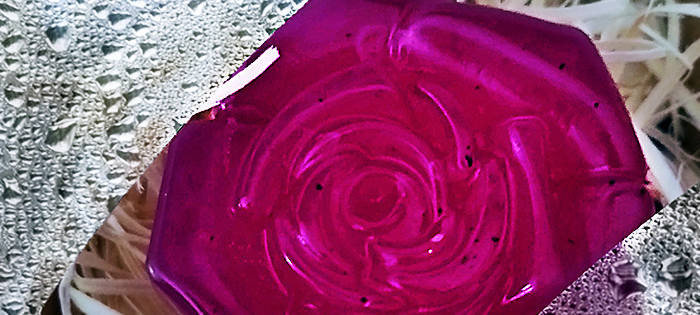
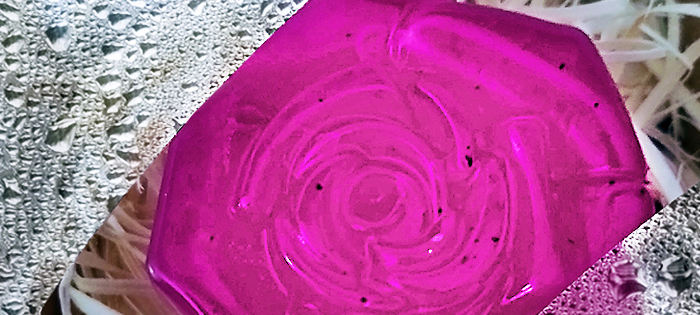
poprawki

diff --git a/oleje.html b/oleje.html
@@ -187,10 +187,9 @@
                     <div class="space-y-6">
                         <h2 class="text-3xl font-bold text-green-dark font-serif">Olej Słonecznikowy</h2>
                         <p class="text-lg text-green-secondary leading-relaxed">
-                            Olej słonecznikowy tłoczony na zimno to naturalny skarb pełen witaminy E i nienasyconych kwasów tłuszczowych. Zachowuje wszystkie cenne właściwości dzięki delikatnej metodzie tłoczenia bez użycia wysokich temperatur.
-                        </p>
-                        <p class="text-lg text-green-secondary leading-relaxed">
-                            Idealny do codziennego użytku w kuchni - do sałatek, sosów i potraw na zimno. Charakteryzuje się delikatnym, słonecznikowym smakiem i złocistym kolorem. Wspiera zdrowie serca i układu krążenia.
+                           Obniża poziom „złego” cholesterolu LDL, zmniejsza ryzyko zawału serca i miażdżycy,
+przeciwdziała zapaleniu stawów oraz poprawia funkcje mózgu, stsosowany w walce ze
+skurczami łydek, wspomaga kondycję włosów, wygląd skóry i paznokci.
                         </p>
                         <div class="flex items-center space-x-4">
                             <span class="text-2xl font-bold text-gold font-serif">30 zł</span>
@@ -206,10 +205,14 @@
                     <div class="space-y-6 md:order-1">
                         <h2 class="text-3xl font-bold text-green-dark font-serif">Olej Rzepakowy</h2>
                         <p class="text-lg text-green-secondary leading-relaxed">
-                            Olej rzepakowy tłoczony na zimno to doskonałe źródło kwasów omega-3 i omega-6 w optymalnych proporcjach. Nierafinowany i niefiltrowany, zachowuje pełnię wartości odżywczych z nasion rzepaku.
-                        </p>
-                        <p class="text-lg text-green-secondary leading-relaxed">
-                            Uniwersalny olej do codziennego gotowania i smażenia w niskich temperaturach. Charakteryzuje się łagodnym smakiem i złocistym kolorem. Wspiera prawidłowy poziom cholesterolu i zdrowie układu sercowo-naczyniowego.
+                            Posiada właściwości odżywcze, przeciwzapalne i kardioprotekcyjne, dzięki czemu wspiera pracę
+mózgu, serca oraz układu nerwowego i odpornościowego. Jest bogatym źródłem witamin (głównie E i
+K), nienasyconych kwasów tłuszczowych (omega-3 i omega-6) oraz antyoksydantów, które opóźniają
+procesy starzenia, pomaga obniżyć poziom "złego" cholesterolu (LDL), zapobiegając
+chorobom serca i naczyń krwionośnych, wspiera układ nerwowy , kwasy tłuszczowe i
+antyoksydanty wpływają na sprawność intelektualną, pamięć i koncentrację, działanie
+przeciwzapalne i odpornościowe, skuteczny w walce z niewydolnością żylną, zawarta witamina K
+odpowiada za prawidłowe krzepnięcie krwi .
                         </p>
                         <div class="flex items-center space-x-4">
                             <span class="text-2xl font-bold text-gold font-serif">35 zł</span>
@@ -229,12 +232,17 @@
                         <img src="https://hebbkx1anhila5yf.public.blob.vercel-storage.com/olej%20z%20konopi-i5uHM3IxeOGE2MQ13WQnrOsx5vmkNr.png" alt="Olej konopny" class="w-full h-96 object-contain">
                     </div>
                     <div class="space-y-6">
-                        <h2 class="text-3xl font-bold text-green-dark font-serif">Olej z Konopi</h2>
+                        <h2 class="text-3xl font-bold text-green-dark font-serif">Olej z Konopi Oleistej</h2>
                         <p class="text-lg text-green-secondary leading-relaxed">
-                            Olej konopny to nowoczesny superfood o wyjątkowych właściwościach. Tłoczony z nasion konopi siewnych, zawiera idealne proporcje kwasów omega-3 i omega-6. Charakteryzuje się zielonkawym odcieniem i orzechowym smakiem.
-                        </p>
-                        <p class="text-lg text-green-secondary leading-relaxed">
-                            Wspiera regenerację skóry, wzmacnia odporność i poprawia samopoczucie. Doskonały do sałatek, kanapek i jako dodatek do smoothie. Produkt w 100% naturalny i ekologiczny.
+                            Skutecznie hamuje namnażanie się tkanki nowotworowej (chlorofil blokuje przemianę
+zdrowotnych komórek w tkanki nowotworowe), zapobiega wahaniom cukru we krwi,
+wspomaga pracę serca i naczyń krwionośnych, zapobiega miażdżycy, wzmacnia naczynia
+krwionośne, zapobiega zatorom, usprawnia przepływ krwi, skuteczny w chorobach i
+problemach neurologicznych, poprawia stan włosów, skóry i paznokci, pozytywnie wpływa na
+pracę układu nerwowego (działanie uspakajające i pomocne przy bezsenności), wspiera
+krzepnięcie krwi. Stosowany zewnętrznie reguluje poziom wilgotności skóry (skutecznie
+nawilża bardzo suchą skórę jak również skuteczny przy cerze mieszanej), ujędrnia skórę,
+wygładza i rozjaśnia cerę (idealny przy bliznach pooperacyjnych, cellulit, zmarszczki , itp.)
                         </p>
                         <div class="flex items-center space-x-4">
                             <span class="text-2xl font-bold text-gold font-serif">55 zł</span>
@@ -248,12 +256,13 @@
             <div class="oil-card p-8 max-w-5xl mx-auto">
                 <div class="grid md:grid-cols-2 gap-8 items-center">
                     <div class="space-y-6 md:order-1">
-                        <h2 class="text-3xl font-bold text-green-dark font-serif">Olej z Ostropestu</h2>
+                        <h2 class="text-3xl font-bold text-green-dark font-serif">Olej z Ostropestu Plamistego</h2>
                         <p class="text-lg text-green-secondary leading-relaxed">
-                            Olej z ostropestu plamistego to naturalny eliksir dla wątroby. Tłoczony na zimno z nasion ostropestu, bogaty w sylimarynę i nienasycone kwasy tłuszczowe. Nierafinowany i niefiltrowany dla maksymalnej skuteczności.
-                        </p>
-                        <p class="text-lg text-green-secondary leading-relaxed">
-                            Wspiera regenerację i ochronę wątroby, wspomaga detoksykację organizmu. Polecany jako suplement diety - łyżeczka dziennie na czczo. Charakteryzuje się delikatnym, lekko gorzkawo-orzechowym smakiem.
+                            Obniża poziom cukru we krwi, normalizuje poziom cholesterolu, zapobiega powstawaniu
+kamieni nerkowych, chorobom pęcherza moczowego, właściwości przeciwzapalne,
+regeneracja komórek wątrobowych, właściwości odtruwające i ochrona miąższu wątroby i
+nerek przed działaniem trucizn (również w przypadku stosowaniu wielu lekarstw,) reguluje
+czynności trawienne, podaję się w przypadku niedokwaśności soku żołądkowego.
                         </p>
                         <div class="flex items-center space-x-4">
                             <span class="text-2xl font-bold text-gold font-serif">50 zł</span>
@@ -275,10 +284,15 @@
                     <div class="space-y-6">
                         <h2 class="text-3xl font-bold text-green-dark font-serif">Olej z Czarnuszki</h2>
                         <p class="text-lg text-green-secondary leading-relaxed">
-                            Olej z czarnuszki to prawdziwy skarb natury. Tłoczony na zimno z nasion czarnuszki siewnej, zachowuje wszystkie cenne właściwości. Bogaty w nienasycone kwasy tłuszczowe, witaminy A, E oraz składniki mineralne.
+                            W produkcji jest stosowane ziarno pochodzącego z Egiptu (nie ziarno polskiej czarnuszki
+siewnej), dzięki czemu olej ma skuteczne działanie zdrowotne.
                         </p>
                         <p class="text-lg text-green-secondary leading-relaxed">
-                            Idealny do stosowania wewnętrznego i zewnętrznego. Wspiera odporność organizmu, poprawia kondycję skóry i włosów. Charakteryzuje się intensywnym, korzenny smakiem. Polecany jako naturalny suplement diety.
+                            Likwiduje wrzody , łagodzi objawy schorzeń alergicznych, takich jak katar alergiczny, objawy
+astmy oskrzelowej, wspomaga leczenie schorzeń skórnych, takich jak trądzik, łupież czy liszaj i AZS,
+działanie antynowotworowe (hamuje i zabija komórki rakowe jelita grubego, białaczki, raka piersi i
+innych nowotworów), chroni przed szkodliwymi skutkami radioterapii, działanie przeciwzapalne ,
+wzmacnia odporność organizmu przed infekcjami.
                         </p>
                         <div class="flex items-center space-x-4">
                             <span class="text-2xl font-bold text-gold font-serif">45 zł</span>
@@ -294,10 +308,11 @@
                     <div class="space-y-6 md:order-1">
                         <h2 class="text-3xl font-bold text-green-dark font-serif">Olej z Gorczycy</h2>
                         <p class="text-lg text-green-secondary leading-relaxed">
-                            Olej z gorczycy to pikantny akcent w zdrowej kuchni. Tłoczony na zimno z nasion gorczycy, zachowuje naturalną ostrość i bogactwo składników odżywczych. Nierafinowany i niefiltrowany dla pełni smaku.
-                        </p>
-                        <p class="text-lg text-green-secondary leading-relaxed">
-                            Doskonały do marynat, sosów i dressingu. Charakteryzuje się wyrazistym, lekko ostrym smakiem i złocistym kolorem. Wspiera trawienie i metabolizm. Idealny dla miłośników intensywnych smaków.
+                            Stosowany zewnętrznie wzmacnia włosy i poprawia ich kondycję (olejowanie włosów –
+pobudza również stare cebulki włosowe), działanie antybakteryjne i przeciwgrzybiczne
+eliminuje problemy łuszczycy, egzemy, łupieżu, „kurzajki” itp. Zmniejsza dolegliwości
+bólowe związane z nadmiernym przeciążeniem mięśni i stawów, rozgrzewa mięśnie i stawy
+(reumatyzm), wspomaga leczenie kontuzji.
                         </p>
                         <div class="flex items-center space-x-4">
                             <span class="text-2xl font-bold text-gold font-serif">40 zł</span>
@@ -319,10 +334,12 @@
                     <div class="space-y-6">
                         <h2 class="text-3xl font-bold text-green-dark font-serif">Olej Lniany</h2>
                         <p class="text-lg text-green-secondary leading-relaxed">
-                            Nasz olej lniany to źródło cennych kwasów omega-3. Tłoczony na zimno z nasion lnu, zachowuje pełnię wartości odżywczych. Charakteryzuje się złocistym kolorem i delikatnym, orzechowym aromatem.
-                        </p>
-                        <p class="text-lg text-green-secondary leading-relaxed">
-                            Doskonały dodatek do sałatek, smoothie i innych potraw na zimno. Wspiera pracę serca, mózgu i układu nerwowego. Polecany szczególnie osobom dbającym o zdrową dietę. Przechowywać w lodówce po otwarciu.
+                           Wspomaga pracę jelit, leczy zaparcia, łagodzi objawy chorób układu pokarmowego, obniża
+poziom złego cholesterolu (LDL), regulacja ciśnienia tętniczego, wpływa na układ nerwowy,
+zwiększa gęstość struktury kości ( urazy i osteoporoza), zmniejsza ciśnienie śródgałkowe
+(chroni przed jaskrą), hamuje enzymy odpowiedzialne za otyłość i wspomaga odchudzanie,
+zapobiega anemii, odżywiona i nawilżona skóra, włosy i paznokcie, warunkuje właściwy
+rozwój dzieci, korzystnie wpływa na prawidłowe funkcjonowanie wzroku i rozwój płodu.
                         </p>
                         <div class="flex items-center space-x-4">
                             <span class="text-2xl font-bold text-gold font-serif">40 zł</span>

diff --git a/mydelka.html b/mydelka.html
@@ -190,9 +190,9 @@
                     <img src="img/mydlo czarne.jpg" alt="Mydełko Fioletowe" class="w-full h-80 object-cover rounded-lg">
                 </div>
                 <div class="md:w-1/2">
-                    <h3 class="text-3xl font-bold text-green-dark mb-4 font-serif">Mydełko Czarne</h3>
+                    <h3 class="text-3xl font-bold text-green-dark mb-4 font-serif">Czarne mydło Antybakteryjne</h3>
                     <p class="text-green-secondary mb-6 text-lg leading-relaxed">
-                        Luksusowe mydełko w kształcie róży z naturalnym olejkiem lawendowym. Zawiera masło shea i olej kokosowy, które głęboko nawilżają i odżywiają skórę. Idealne dla skóry wrażliwej.
+                        mydełka na bazie olei tłoczonych na zimno: czarnuszki, konopi i gorczycy (działanie antybakteryjne i antygrzybiczne, nawilżenie, wygładzenie i nadanie skórze elastyczności).
                     </p>
                     <div class="flex items-center justify-between">
                         <span class="text-2xl font-bold text-gold font-serif">24 zł</span>
@@ -207,9 +207,9 @@
                     <img src="img/mydlo zielone.jpg" alt="Mydełko Zielone" class="w-full h-80 object-cover rounded-lg">
                 </div>
                 <div class="md:w-1/2">
-                    <h3 class="text-3xl font-bold text-green-dark mb-4 font-serif">Mydełko Zielone</h3>
+                    <h3 class="text-3xl font-bold text-green-dark mb-4 font-serif">Zielone mydło Zielony wodospad</h3>
                     <p class="text-green-secondary mb-6 text-lg leading-relaxed">
-                        Odświeżające mydełko z ekstraktem z zielonej herbaty i olejkiem eukaliptusowym. Doskonale oczyszcza i tonizuje skórę, pozostawiając uczucie świeżości. Idealne do codziennej pielęgnacji.
+                        świeża, fantazyjna, morska kompozycja z nutami soczystej zieleni i cytrusów, w tle delikatny akord kwiatowo-piżmowy.
                     </p>
                     <div class="flex items-center justify-between">
                         <span class="text-2xl font-bold text-gold font-serif">22 zł</span>
@@ -223,9 +223,9 @@
                     <img src="img/mydlo niebieskie.jpg" alt="Mydełko Granatowe" class="w-full h-80 object-cover rounded-lg">
                 </div>
                 <div class="md:w-1/2">
-                    <h3 class="text-3xl font-bold text-green-dark mb-4 font-serif">Mydełko Niebieskie</h3>
+                    <h3 class="text-3xl font-bold text-green-dark mb-4 font-serif">Niebieskie mydło Invictus</h3>
                     <p class="text-green-secondary mb-6 text-lg leading-relaxed">
-                        Eleganckie mydełko z ekstraktem z niebieskiej gliny i olejkiem z drzewa herbacianego. Detoksykuje i głęboko oczyszcza skórę, regulując wydzielanie sebum. Idealne dla skóry tłustej i mieszanej.
+                        siła dynamiki i energii, łączy w sobie dziką świeżość i zmysłowość, świeży, wodny zapach o kwiatowych akordach dla silnego mężczyzny, który jest bohaterem.
                     </p>
                     <div class="flex items-center justify-between">
                         <span class="text-2xl font-bold text-gold font-serif">23 zł</span>
@@ -236,12 +236,12 @@
             <!-- Product 4 - Mydełko Czerwone with rounded image, reversed layout -->
             <div class="product-card p-8 flex flex-col md:flex-row-reverse items-center gap-8">
                 <div class="md:w-1/2">
-                    <img src="img/mydlo czerwone.jpg" alt="Mydełko Czerwone" class="w-full h-80 object-cover rounded-lg">
+                    <img src="img/mydlo fioletowe.jpg" alt="Mydełko Czerwone" class="w-full h-80 object-cover rounded-lg">
                 </div>
                 <div class="md:w-1/2">
-                    <h3 class="text-3xl font-bold text-green-dark mb-4 font-serif">Mydełko Czerwone</h3>
+                    <h3 class="text-3xl font-bold text-green-dark mb-4 font-serif">Mydło fioletowe Świeża lawenda</h3>
                     <p class="text-green-secondary mb-6 text-lg leading-relaxed">
-                        Zmysłowe mydełko z ekstraktem z płatków róży i olejkiem różanym. Nawilża i regeneruje skórę, pozostawiając delikatny, romantyczny aromat. Idealne dla skóry dojrzałej i wymagającej intensywnej pielęgnacji.
+                        kompozycja o zapachu lawendy.
                     </p>
                     <div class="flex items-center justify-between">
                         <span class="text-2xl font-bold text-gold font-serif">25 zł</span>
@@ -253,9 +253,10 @@
                     <img src="img/mydlo rozowe.jpg" alt="Mydełko Różowe" class="w-full h-80 object-cover rounded-lg">
                 </div>
                 <div class="md:w-1/2">
-                    <h3 class="text-3xl font-bold text-green-dark mb-4 font-serif">Mydełko Różowe</h3>
+                    <h3 class="text-3xl font-bold text-green-dark mb-4 font-serif">Miss Sherry (odpowiednik Dior)</h3>
                     <p class="text-green-secondary mb-6 text-lg leading-relaxed">
-                        Luksusowe mydełko w kształcie róży z naturalnym olejkiem lawendowym. Zawiera masło shea i olej kokosowy, które głęboko nawilżają i odżywiają skórę. Idealne dla skóry wrażliwej.
+                        kompozycja fantazyjno - kwiatowa, bukiet
+wielobarwnych piwonii otulonych słodyczą wanilli
                     </p>
                     <div class="flex items-center justify-between">
                         <span class="text-2xl font-bold text-gold font-serif">24 zł</span>

diff --git a/index.html b/index.html
@@ -205,7 +205,7 @@
             <div class="product-card p-8">
                 <div class="grid md:grid-cols-2 gap-8 items-center">
                     <div class="image-container">
-                        <img src="img/oleje.png" alt="Oleje" class="w-full h-80 object-contain">
+                        <img src="img/oleje1.png" alt="Oleje" class="w-full h-80 object-contain">
                     </div>
                     <div class="space-y-6">
                         <h2 class="text-3xl font-bold text-green-dark font-serif">OLEJE</h2>
@@ -213,7 +213,7 @@
                             Wysokiej jakości oleje tłoczone na zimno. Zachowują wszystkie cenne właściwości dzięki delikatnej metodzie tłoczenia bez użycia wysokich temperatur.
                         </p>
                         <p class="text-lg text-green-secondary leading-relaxed">
-                            Odkryj bogactwo naturalnych olejów - od słonecznikowego, przez rzepakowy, konopny, aż po olej z ostropestu i czarnuszki. Każdy produkt to efekt starannej selekcji i tradycyjnych metod produkcji.
+                            Odkryj bogactwo naturalnych olejów od słonecznikowego, przez rzepakowy, konopny, aż po olej z ostropestu, czarnuszki, lnu i gorczycowego. Każdy produkt to efekt starannej selekcji i tradycyjnych metod produkcji.
                         </p>
                         <a href="oleje.html" class="ornate-button text-white px-10 py-3 rounded-full font-bold text-base transition-all duration-300 transform hover:scale-105 font-serif inline-block">
                             ZOBACZ WIĘCEJ
@@ -228,10 +228,10 @@
                     <div class="space-y-6 md:order-1">
                         <h2 class="text-3xl font-bold text-green-dark font-serif">MYDEŁKA</h2>
                         <p class="text-lg text-green-secondary leading-relaxed">
-                            Naturalne mydełka ręcznie robione z najczystszych składników. Każde mydełko to unikalne połączenie naturalnych olejów, masła shea i aromatycznych olejków eterycznych.
+                            Naturalne mydełka ręcznie robione z naturalnych składników. Każde mydełko to unikalne połączenie bazy gliceryny oraz aromatycznych kompozycji zapachowych wykonywanych na zamówienie w specjalistycznym laboratorium.
                         </p>
                         <p class="text-lg text-green-secondary leading-relaxed">
-                            Delikatne dla skóry, przyjazne dla środowiska. Nasze mydełka nie zawierają sztucznych barwników ani konserwantów. Idealne dla całej rodziny, również dla skóry wrażliwej.
+                           Delikatne dla skóry, przyjazne dla środowiska. Nasze mydełka nie zawierają sztucznych barwników ani konserwantów. Idealne dla całej rodziny, również dla skóry wrażliwej.
                         </p>
                         <a href="mydelka.html" class="ornate-button text-white px-10 py-3 rounded-full font-bold text-base transition-all duration-300 transform hover:scale-105 font-serif inline-block">
                             ZOBACZ WIĘCEJ
@@ -283,12 +283,15 @@
                 
                 <div class="max-w-4xl mx-auto">
                     <p class="text-xl leading-relaxed mb-6 font-body">
-                        Nasze oleje tłoczone na zimno, 
-                        naturalne mydełka i świece sojowe to efekt wieloletniej pracy nad doskonałością każdego produktu.
+                        Mała Olejarnia Eli powstała w sercu Podlasia, z dala od zgiełku i pośpiechu, miejscu w którym
+                        tradycja spotyka się z jakością a natura przemawia smakiem. Specjalizuję się w toczeniu olein na
+                        zimno ze starannie wyselekcjonowanych nasion. Dzięki małej domowej skali produkcji, oferuję
+                        świeże, pełnowartościowe, naturalne, pełne aromatu i naturalnych właściwości oleje tłoczone na
+                        zimno. Oleje tłoczone są na świeżo małymi partiami kilka razy w tygodniu.
                     </p>
                     <p class="text-xl leading-relaxed mb-8 font-body">
-                        Dbamy o najwyższą jakość i tradycyjne metody produkcji, aby dostarczyć Państwu 
-                        produkty, które wspierają zdrowie i dobre samopoczucie w naturalny sposób.
+                        Mała Olejarnia Eli w produkcji domowej wykorzystuje wysokiej jakości surowiec, ziarna
+                        potwierdzone są atestami jakościowymi.
                     </p>
                 </div>
                 
